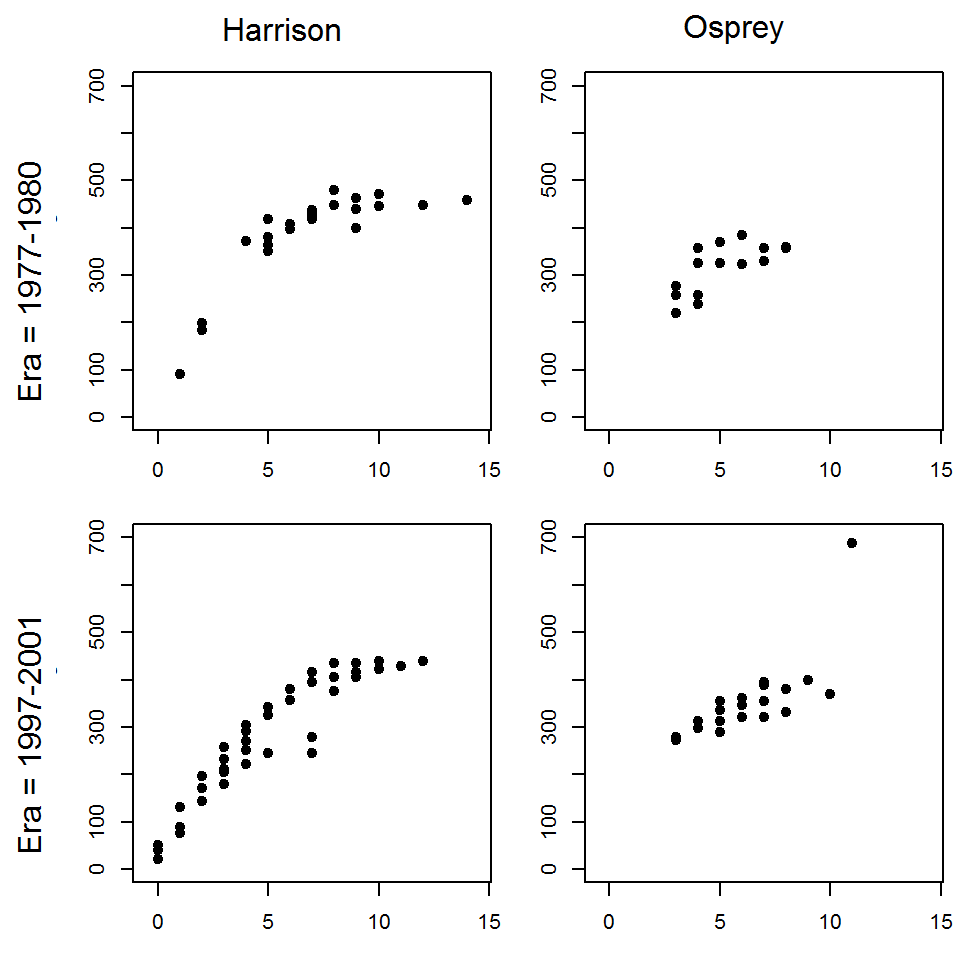
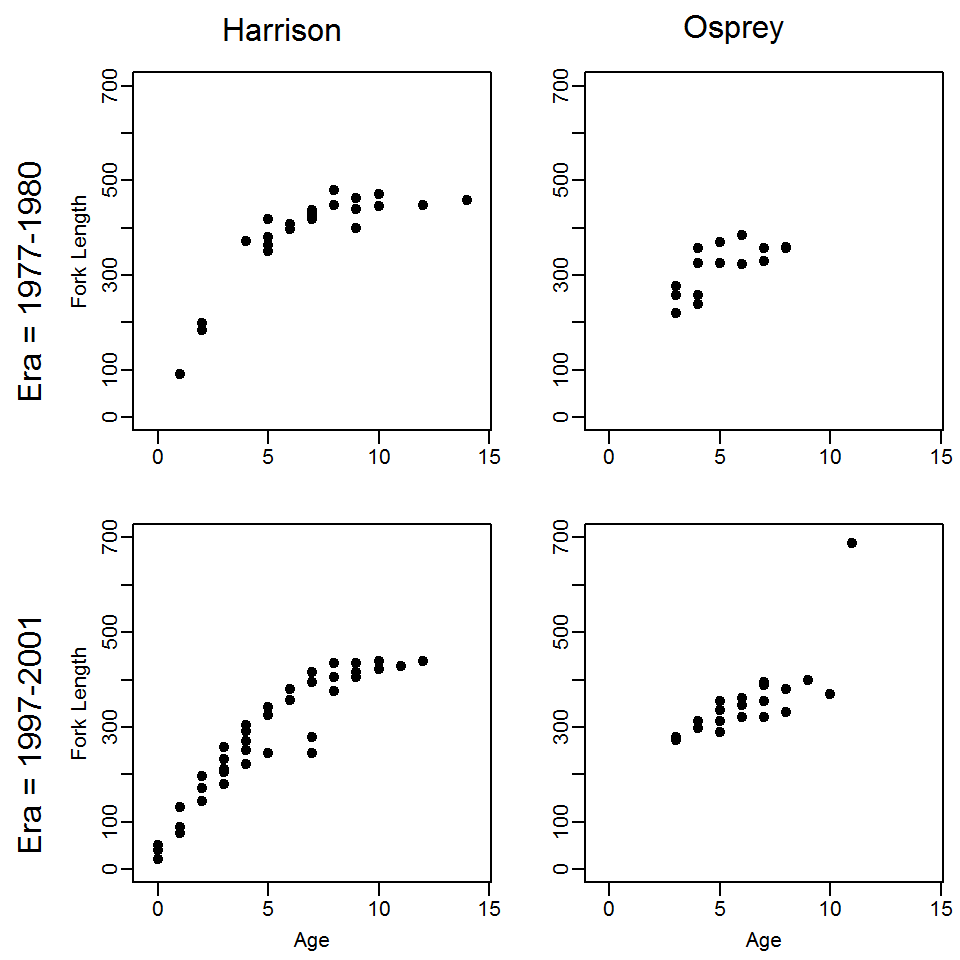
Some fixes

diff --git a/supplements/plotting/ComplexLayouts.html b/supplements/plotting/ComplexLayouts.html
@@ -54,7 +54,7 @@ author: Derek H. Ogle
 [2,]    2    3</code></pre>
 <pre class="r"><code>&gt; layout(m)
 &gt; layout.show(3)</code></pre>
-<p><img src="ComplexLayouts_files/figure-html/Layout2-1.png" title="" alt="" width="480" /></p>
+<p><img src="ComplexLayouts_files/figure-html/Layout2-1.png" title="" alt="" width="240" /></p>
 <p>Figure 2: Illustration of layout grid for graphics with one graph in first row and two in the second row.</p>
 <p>The following code fills this layout grid to produce Figure 3.</p>
 <pre class="r"><code>&gt; plot(age3~eggs,data=BLH,pch=19,xlab=&quot;Millions of Eggs&quot;,
@@ -70,7 +70,7 @@ author: Derek H. Ogle
 [2,]    1    3</code></pre>
 <pre class="r"><code>&gt; layout(m,height=c(1,4),width=c(4,1),respect=TRUE)
 &gt; layout.show(3)</code></pre>
-<p><img src="ComplexLayouts_files/figure-html/unnamed-chunk-6-1.png" title="" alt="" width="480" /></p>
+<p><img src="ComplexLayouts_files/figure-html/unnamed-chunk-6-1.png" title="" alt="" width="240" /></p>
 <p>Figure 4: Illustration of layout grid for graphics with differing row heights and column widths.</p>
 <p>Figure 5 is an example that fills the layout shown in Figure 4.</p>
 <pre class="r"><code>&gt; par(mar=c(4,4,0,0))
@@ -102,7 +102,7 @@ author: Derek H. Ogle
 &gt; plot.new(); text(0.5,0.5,&quot;Era = 1977-1980&quot;,cex=1.5,srt=90)
 &gt; plot.new(); text(0.5,0.5,&quot;Era = 1997-2001&quot;,cex=1.5,srt=90)
 &gt; 
-&gt; par(mar=c(3.05,3.05,0.65,0.65))
+&gt; par(mar=c(3.05,3.05,0.65,0.65),mgp=c(1.7,0.5,0))
 &gt; xlmt &lt;- c(-0.5,14.5)
 &gt; ylmt &lt;- c(0,700)
 &gt; plot(fl~age,data=BTH1,xlab=&quot;&quot;,ylab=&quot;Fork Length&quot;,
@@ -114,15 +114,14 @@ author: Derek H. Ogle
 &gt; plot(fl~age,data=BTO2,xlab=&quot;Age&quot;,ylab=&quot;&quot;,
        pch=19,xlim=xlmt,ylim=ylmt)</code></pre>
 <p><img src="ComplexLayouts_files/figure-html/unnamed-chunk-8-1.png" title="" alt="" width="480" /></p>
-</div>
-<div id="figure-6-illustration-of-layout-grid-with-differing-heights-and-widths-such-that-labels-can-be-placed-on-the-sides." class="section level2">
-<h2>Figure 6: Illustration of layout grid with differing heights and widths such that labels can be placed on the sides.</h2>
+<p>Figure 6: Illustration of layout grid with differing heights and widths such that labels can be placed on the sides.</p>
+<hr />
 </div>
 <div id="reproducibility-information" class="section level2">
 <h2>Reproducibility Information</h2>
 <ul>
 <li><strong>Compiled Date:</strong> Mon Sep 21 2015</li>
-<li><strong>Compiled Time:</strong> 9:48:46 AM</li>
+<li><strong>Compiled Time:</strong> 9:55:04 AM</li>
 <li><strong>R Version:</strong> R version 3.2.2 (2015-08-14)</li>
 <li><strong>System:</strong> Windows, i386-w64-mingw32/i386 (32-bit)</li>
 <li><strong>Base Packages:</strong> base, datasets, graphics, grDevices, methods, stats, utils</li>
